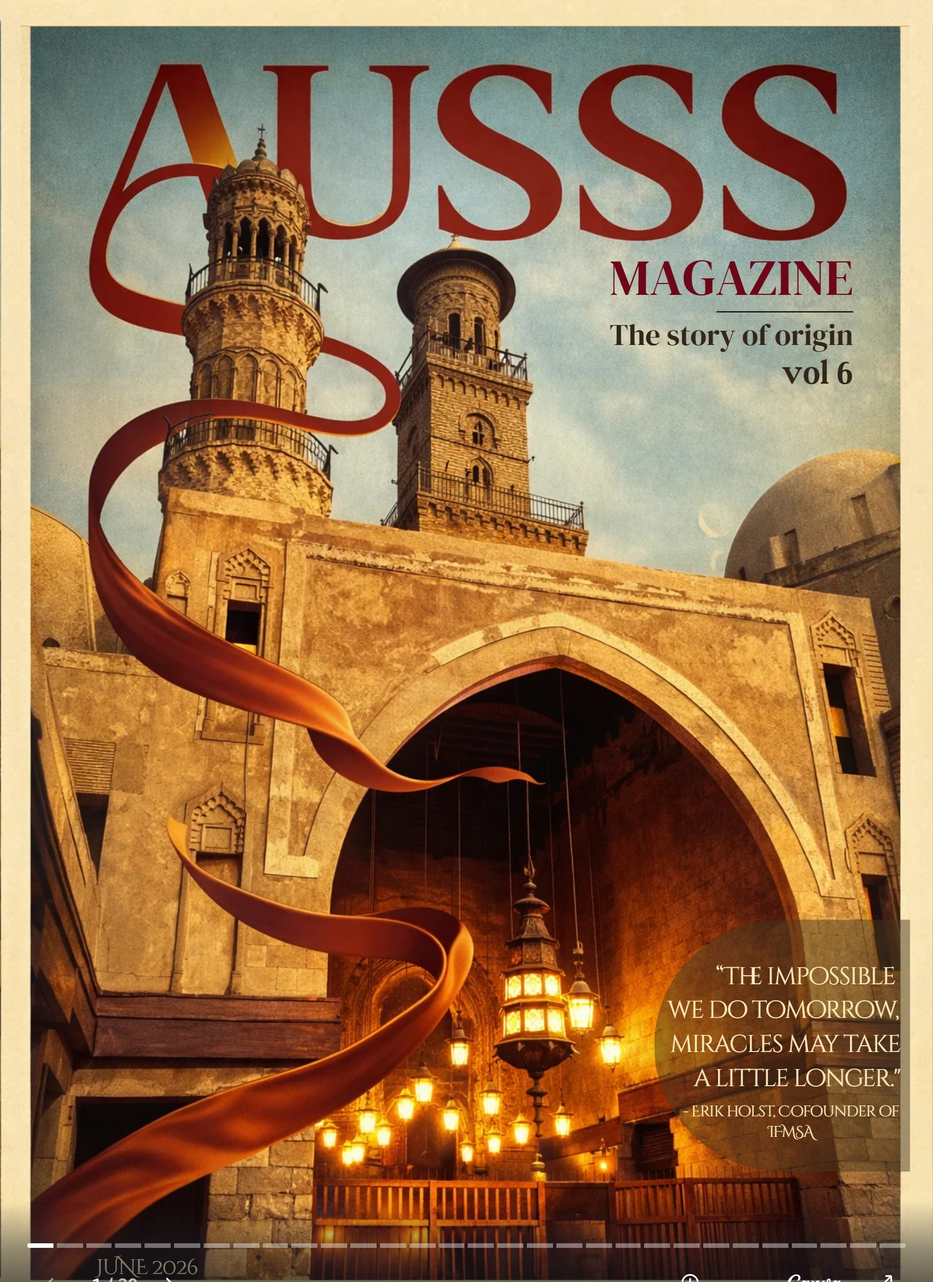
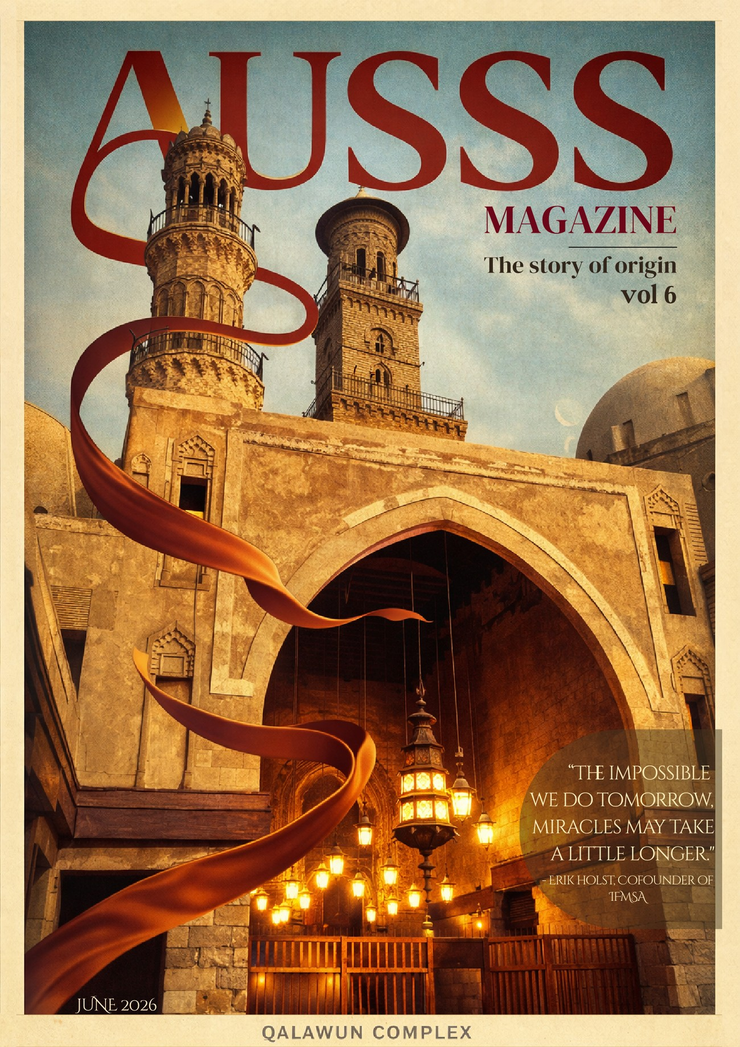
Update magazine: new PDF pages, closed-cover flipbook, new download link
- Regenerate page images + cover from updated source PDF
- Flipbook opens closed (showCover) with hard-density cover pages
- Point Download button at new Drive file

diff --git a/src/components/Flipbook.jsx b/src/components/Flipbook.jsx
@@ -62,25 +62,32 @@ export default function Flipbook({ pages, title }) {
           minHeight={Math.round(300 * ratio)}
           maxHeight={Math.round(650 * ratio)}
           maxShadowOpacity={0.5}
-          showCover={false}
+          showCover
           mobileScrollSupport
           usePortrait={isMobile}
           drawShadow
           flippingTime={700}
           className="mx-auto"
         >
-          {pages.map((url, i) => (
-            <div key={i} className="overflow-hidden rounded-[10px] bg-white">
-              <img
-                src={url}
-                alt={`${title}, page ${i + 1}`}
-                className="h-full w-full select-none"
-                draggable={false}
-                loading={i < 4 ? 'eager' : 'lazy'}
-                decoding="async"
-              />
-            </div>
-          ))}
+          {pages.map((url, i) => {
+            const isCover = i === 0 || i === pages.length - 1
+            return (
+              <div
+                key={i}
+                className="overflow-hidden rounded-[10px] bg-white"
+                data-density={isCover ? 'hard' : 'soft'}
+              >
+                <img
+                  src={url}
+                  alt={`${title}, page ${i + 1}`}
+                  className="h-full w-full select-none"
+                  draggable={false}
+                  loading={i < 4 ? 'eager' : 'lazy'}
+                  decoding="async"
+                />
+              </div>
+            )
+          })}
         </HTMLFlipBook>
       </div>
 

diff --git a/src/data/magazine.js b/src/data/magazine.js
@@ -33,7 +33,7 @@ export const magazine = {
   },
   // Full-quality copy for the Download button (hosted off-repo).
   download:
-    'https://drive.google.com/file/d/1PuSttZynpiFCy7R5td61qY-OO8Nbz015/view',
+    'https://drive.google.com/file/d/17zMEOGekcoC09X4NDcgBxFlgaA-FiXuw/view',
   // Canva "view" share link, kept as an "Open on Canva" fallback.
   canva: 'https://www.canva.com/design/DAHGTEatDDQ/0BPis3tFKLYKp4OCFfUVXw/view',
   // Optional aspect ratio (height ÷ width) for the Canva fallback frame.
